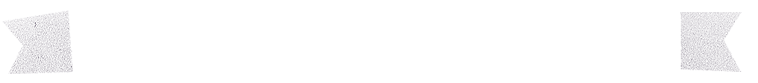
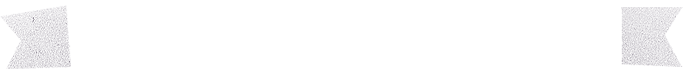
Updated Tagline

diff --git a/css/cogs.css b/css/cogs.css
@@ -186,9 +186,9 @@
 
 #cogTagline h2 {
   position:relative;
-  height:83px;
+  height:76px;
   margin:0 auto;
-  width:758px;
+  width:683px;
   text-indent:-9999px;
   display:block;
   background:url(/images/cogs/cog-tagline.png) no-repeat;
